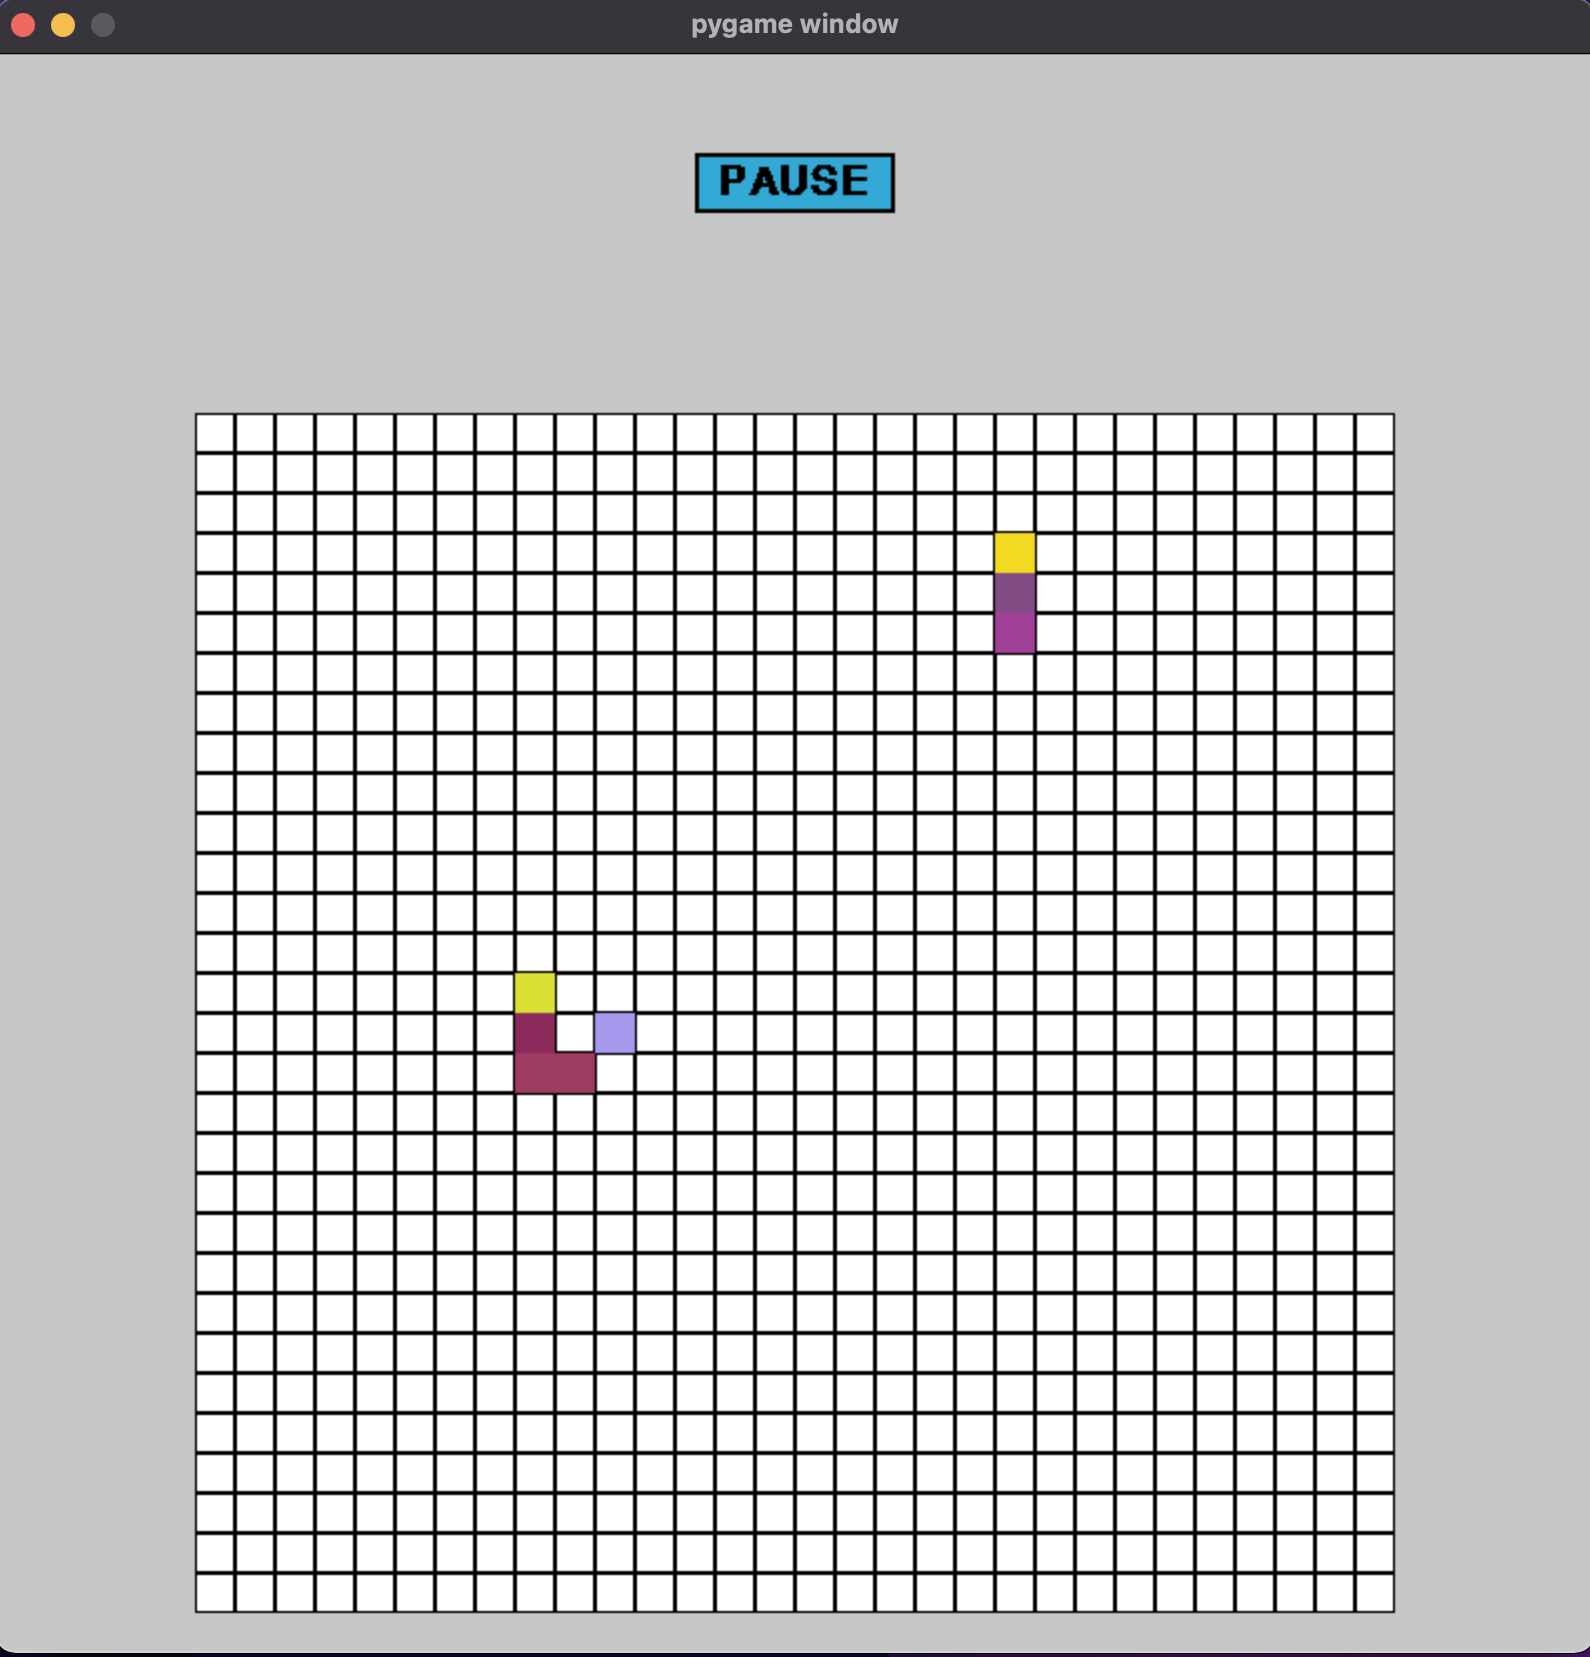
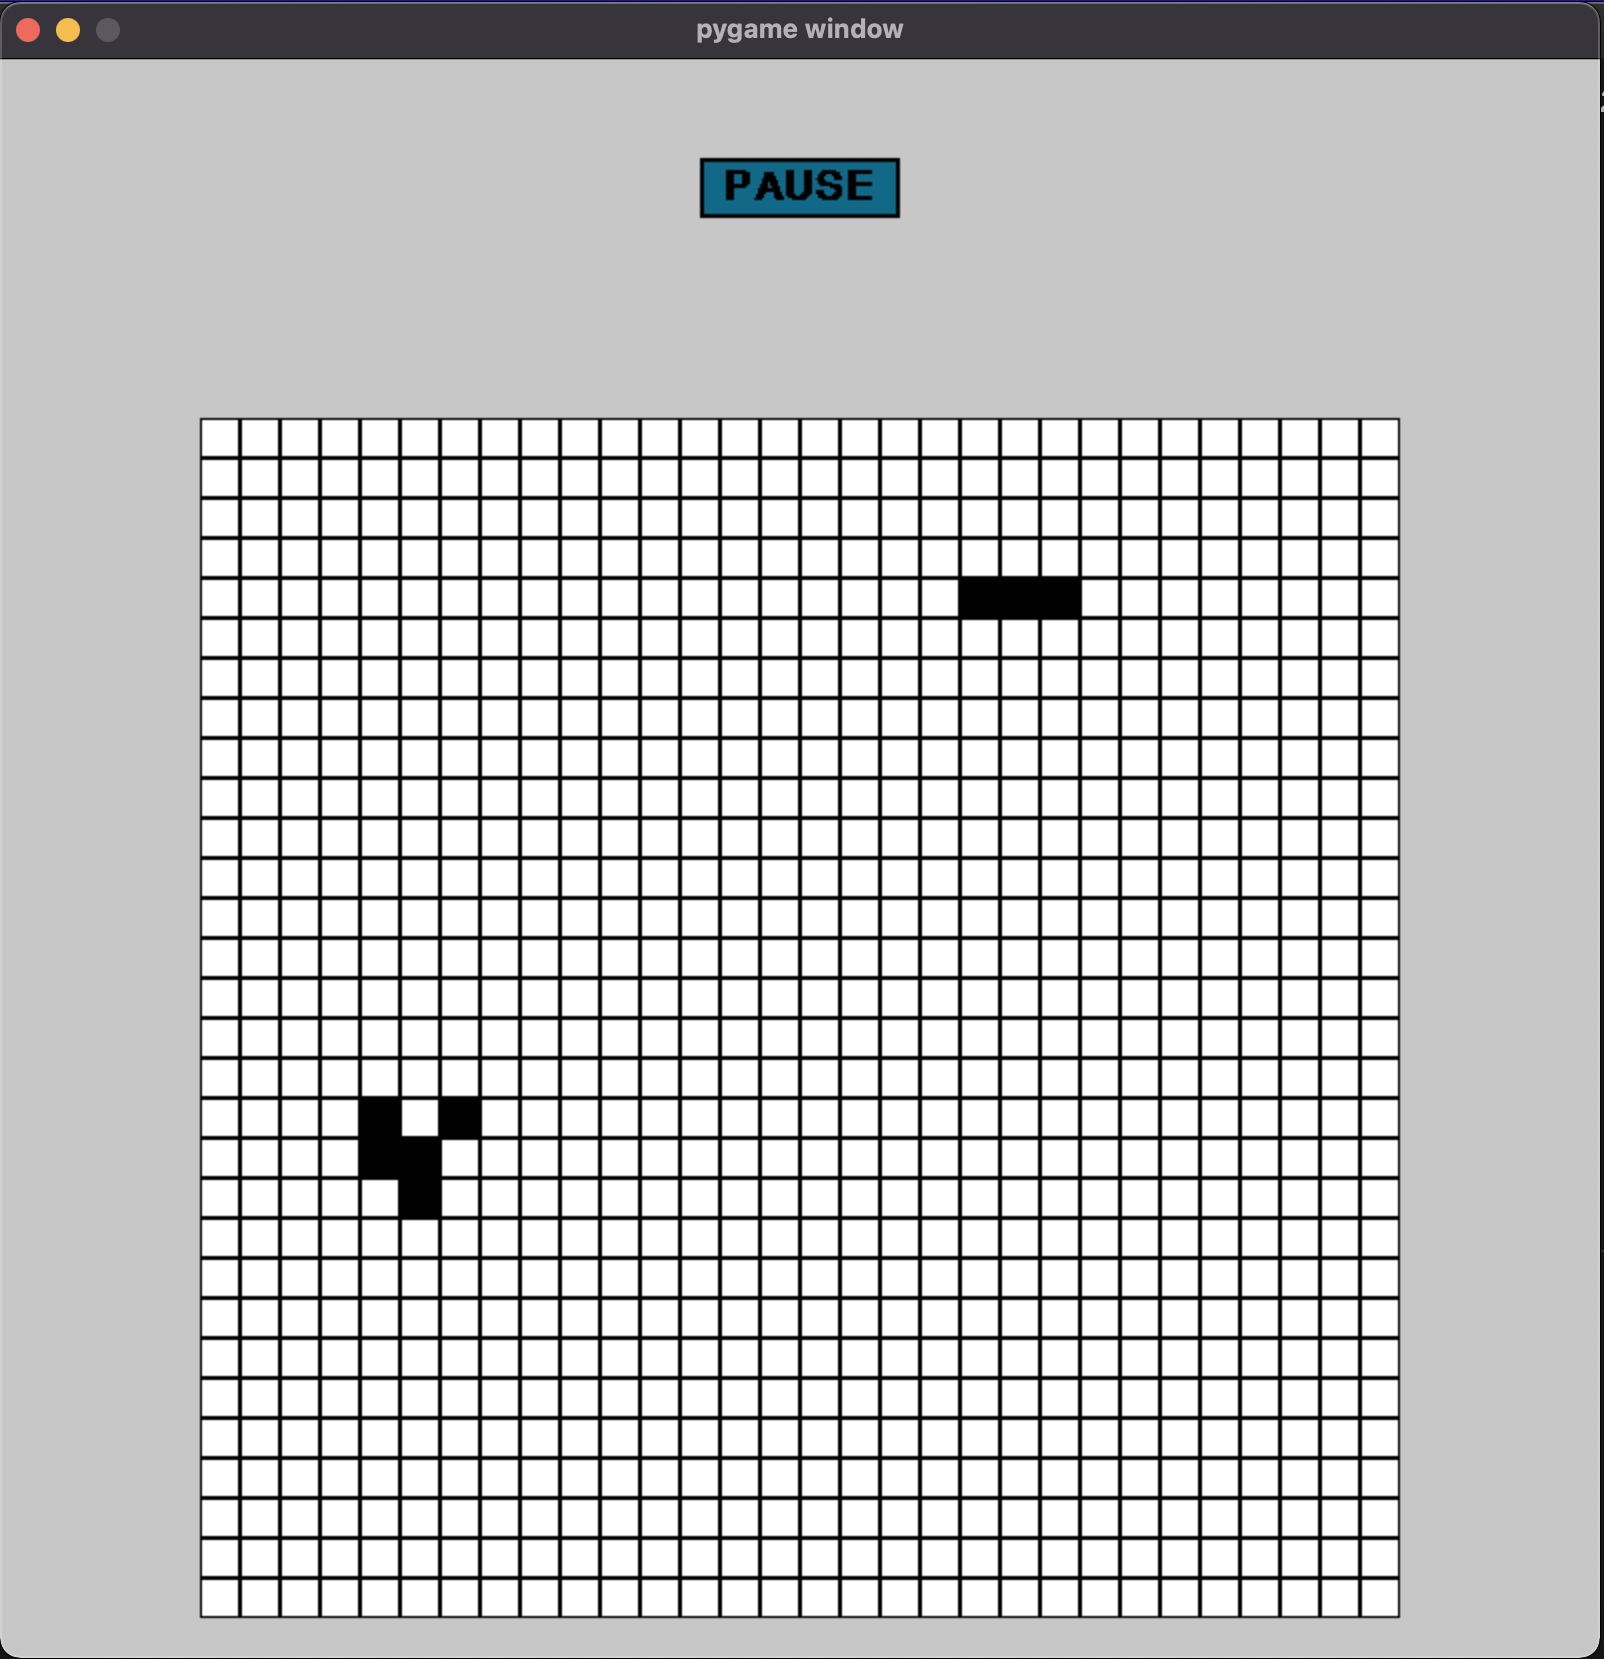
modified the content

Changed region(s): [[0.0, 0.0, 1.0, 1.0], [0.4314, 0.0923, 0.5855, 0.1539]]

diff --git a/cell_class.py b/cell_class.py
@@ -1,6 +1,6 @@
-import pygame, random
+import pygame
 
-"""Creating cell class which helps to create the rectangle image on cell and also check the neighbour cells are alive or not and take decisions """
+""" Creating cell class which helps to create the rectangle image on cell and also check the neighbour cells are alive or not and take decisions """
 
 class Cell:
     def __init__(self, surface, grid_x, grid_y):
@@ -12,18 +12,21 @@ class Cell:
         self.reactangle = self.image.get_rect()
         self.neighbours = []
         self.alive_neighbours = 0
-        self.colour = (0, 0, 0)
 
     def update(self):
         self.reactangle.topleft = (self.grid_x * 20, self.grid_y * 20)
+    
+    """ Draw function helps to draw the rectangle image and filling the colour if cell is alive """
 
     def draw(self):
         if self.alive:
-            self.image.fill(self.colour)
+            self.image.fill((0,0,0))
         else:
             self.image.fill((0, 0, 0))
             pygame.draw.rect(self.image, (255, 255, 255), (1, 1, 18, 18))
         self.surface.blit(self.image, (self.grid_x * 20, self.grid_y * 20))
+
+    """ Get neighbours function helps to identify the neighbours of each grid cells """
 
     def get_neighbours(self, grid):
         neighbour_list = [[1, 1], [-1, -1], [-1, 1], [1, -1], [0, -1], [0, 1],[1, 0], [-1, 0]]
@@ -45,6 +48,8 @@ class Cell:
             except:
                 print(neighbour)
 
+    """ Live neighbours function checks whether the neighbours of grid cells are alive or not """
+
     def live_neighbours(self):
         count = 0
         for neighbour in self.neighbours:
@@ -52,9 +57,3 @@ class Cell:
                 count += 1
         self.alive_neighbours = count
 
-    def set_colour(self):
-        for cell in self.neighbours:
-            if cell.colour != (0, 0, 0):
-                self.colour = cell.colour
-            else:
-                self.colour = (random.randint(0, 255), random.randint(0, 255), random.randint(0, 255))

diff --git a/game_window_class.py b/game_window_class.py
@@ -68,9 +68,5 @@ class Game_window:
                     if cell.alive_neighbours == 3:
                         new_grid[yidx][xidx].alive = True
 
-        for yidx,row in enumerate(self.grid):
-            for xidx,cell in enumerate(row):
-                if cell.alive:
-                    new_grid[yidx][xidx].set_colour()
-
+    
         self.grid = new_grid
